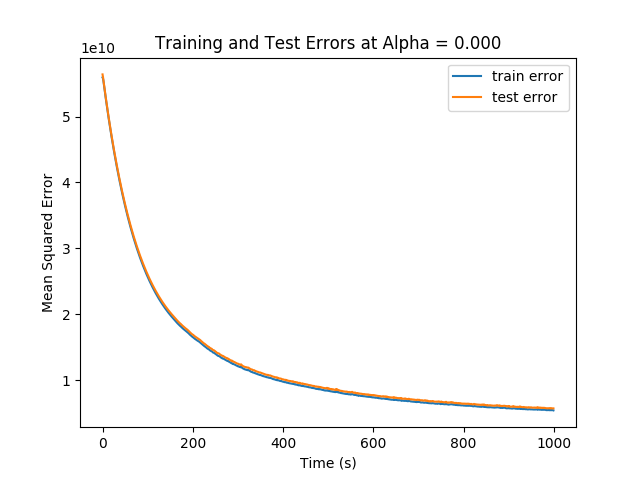
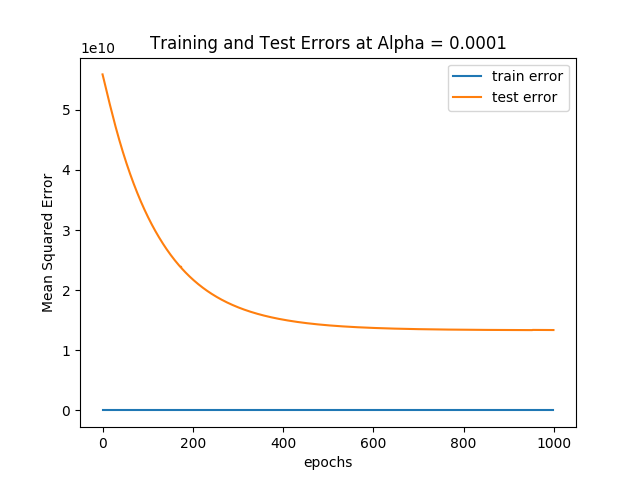
modification part b

diff --git a/project_1/part_b/q1/main.py b/project_1/part_b/q1/main.py
@@ -6,21 +6,27 @@ import theano.tensor as T
 import matplotlib.pyplot as plt
 from mpl_toolkits.mplot3d import Axes3D
 
+from sklearn.model_selection import KFold
+
+
 
 np.random.seed(10)
 
 epochs = 1000
-batch_size = 32
+batch_size = 128
 no_hidden1 = 30 #num of neurons in hidden layer 1
 learning_rate = 0.0001
+noExps = 2
 
 floatX = theano.config.floatX
 
 # scale and normalize input data
 def scale(X, X_min, X_max):
+    X_max, X_min =  np.max(X, axis=0), np.min(X, axis=0)
     return (X - X_min)/(X_max - X_min)
  
 def normalize(X, X_mean, X_std):
+    X_mean, X_std = np.mean(X, axis=0), np.std(X, axis=0)
     return (X - X_mean)/X_std
 
 def shuffle_data (samples, labels):
@@ -30,45 +36,62 @@ def shuffle_data (samples, labels):
     samples, labels = samples[idx], labels[idx]
     return samples, labels
 
+def init_bias(n = 1):
+    return(theano.shared(np.zeros(n), theano.config.floatX))
+
+def init_weights(n_in=1, n_out=1, logistic=True):
+    W_values = np.random.uniform(low=-np.sqrt(6. / (n_in + n_out)),
+                                 high=np.sqrt(6. / (n_in + n_out)),
+                                 size=(n_in, n_out))
+    if logistic == True:
+        W_values *= 4
+    return(theano.shared(W_values, theano.config.floatX))
+
+def set_bias(b, n = 1):
+    b.set_value(np.zeros(n))
+
+def set_weights(w, n_in=1, n_out=1, logistic=True):
+    W_values = np.random.uniform(low=-np.sqrt(6. / (n_in + n_out)),
+                                 high=np.sqrt(6. / (n_in + n_out)),
+                                 size=(n_in, n_out))
+    if logistic == True:
+        W_values *= 4
+    w.set_value(W_values)
+
 #read and divide data into test and train sets 
 cal_housing = np.loadtxt('../../data/cal_housing.data', delimiter=',')
 X_data, Y_data = cal_housing[:,:8], cal_housing[:,-1]
 Y_data = (np.asmatrix(Y_data)).transpose()
 
-X_data, Y_data = shuffle_data(X_data, Y_data)
+# X_data, Y_data = shuffle_data(X_data, Y_data)
 
 #separate train and test data
-m = 3*X_data.shape[0] // 10
-testX, testY = X_data[:m],Y_data[:m]
-trainX, trainY = X_data[m:], Y_data[m:]
+# m = 3*X_data.shape[0] // 10
+# testX, testY = X_data[:m],Y_data[:m]
+# trainX, trainY = X_data[m:], Y_data[m:]
 
-# scale and normalize data
-trainX_max, trainX_min =  np.max(trainX, axis=0), np.min(trainX, axis=0)
-testX_max, testX_min =  np.max(testX, axis=0), np.min(testX, axis=0)
+# trainX = scale(trainX)
+# testX = scale(testX)
 
-trainX = scale(trainX, trainX_min, trainX_max)
-testX = scale(testX, testX_min, testX_max)
+# trainX = normalize(trainX, trainX_mean, trainX_std)
+# testX = normalize(testX, testX_mean, testX_std)
 
-trainX_mean, trainX_std = np.mean(trainX, axis=0), np.std(trainX, axis=0)
-testX_mean, testX_std = np.mean(testX, axis=0), np.std(testX, axis=0)
-
-trainX = normalize(trainX, trainX_mean, trainX_std)
-testX = normalize(testX, testX_mean, testX_std)
-
-no_features = trainX.shape[1] 
+no_features = X_data.shape[1] 
 x = T.matrix('x') # data sample
 d = T.matrix('d') # desired output
 no_samples = T.scalar('no_samples')
 
 # initialize weights and biases for hidden layer(s) and output layer
-w_o = theano.shared(np.random.randn(no_hidden1)*.01, floatX ) 
-b_o = theano.shared(np.random.randn()*.01, floatX)
-w_h1 = theano.shared(np.random.randn(no_features, no_hidden1)*.01, floatX )
-b_h1 = theano.shared(np.random.randn(no_hidden1)*0.01, floatX)
+# w_o = theano.shared(np.random.randn(no_hidden1)*.01, floatX ) 
+# b_o = theano.shared(np.random.randn()*.01, floatX)
+# w_h1 = theano.shared(np.random.randn(no_features, no_hidden1)*.01, floatX )
+# b_h1 = theano.shared(np.random.randn(no_hidden1)*0.01, floatX)
+
+w_h1, b_h1 = init_weights(no_features, no_hidden1), init_bias(no_hidden1)
+w_o, b_o = init_weights(no_hidden1), init_bias()
 
 # learning rate
-alpha = theano.shared(learning_rate, floatX) 
-
+alpha = theano.shared(learning_rate, floatX)
 
 #Define mathematical expression:
 h1_out = T.nnet.sigmoid(T.dot(x, w_h1) + b_h1)
@@ -101,51 +124,114 @@ train_cost = np.zeros(epochs)
 test_cost = np.zeros(epochs)
 test_accuracy = np.zeros(epochs)
 
-
 min_error = 1e+15
-best_iter = 0
-best_w_o = np.zeros(no_hidden1)
-best_w_h1 = np.zeros([no_features, no_hidden1])
-best_b_o = 0
-best_b_h1 = np.zeros(no_hidden1)
+# best_iter = 0
+# best_w_o = np.zeros(no_hidden1)
+# best_w_h1 = np.zeros([no_features, no_hidden1])
+# best_b_o = 0
+# best_b_h1 = np.zeros(no_hidden1)
 
 alpha.set_value(learning_rate)
 print(alpha.get_value())
 
-t = time.time()
-for iter in range(epochs):
-    if iter % 100 == 0:
-        print(iter)
+# t = time.time()
+# for iter in range(epochs):
+#     if iter % 100 == 0:
+#         print(iter)
     
-    trainX, trainY = shuffle_data(trainX, trainY)
-    train_cost[iter] = train(trainX, np.transpose(trainY))
-    pred, test_cost[iter], test_accuracy[iter] = test(testX, np.transpose(testY))
+#     trainX, trainY = shuffle_data(trainX, trainY)
+#     train_cost[iter] = train(trainX, np.transpose(trainY))
+#     pred, test_cost[iter], test_accuracy[iter] = test(testX, np.transpose(testY))
 
-    if test_cost[iter] < min_error:
-        best_iter = iter
-        min_error = test_cost[iter]
-        best_w_o = w_o.get_value()
-        best_w_h1 = w_h1.get_value()
-        best_b_o = b_o.get_value()
-        best_b_h1 = b_h1.get_value()
+#     if test_cost[iter] < min_error:
+#         best_iter = iter
+#         min_error = test_cost[iter]
+#         best_w_o = w_o.get_value()
+#         best_w_h1 = w_h1.get_value()
+#         best_b_o = b_o.get_value()
+#         best_b_h1 = b_h1.get_value()
+
+learning_rates = [0.001, 0.005, 0.0001, 0.0005, 0.00001]
+
+noFolds = 5
+print("X shape: ", X_data.shape)
+fold_size = X_data.shape[0] // noFolds
+print("Fold size: ", fold_size)
+print("nb of features: ", no_features)
+
+
+opt_learningrate = []
+for exp in range(noExps):
+    print('Exp: ', exp+1)
+    # np.random.shuffle(idx)
+    # X, Y = X[idx], Y[idx]
+    X_data, Y_data = shuffle_data(X_data, Y_data)
+    
+    test_cost = []
+    for learning_rate in learning_rates:
+        print("Learning rate: ", learning_rate)
+        alpha.set_value(learning_rate)
+
+        fold_cost = []
+        for fold in range(noFolds):
+
+            start, end = fold*fold_size, (fold +1)*fold_size
+            testX, testY = X_data[start:end], Y_data[start:end]
+            trainX, trainY = np.append(X_data[:start], X_data[end:], axis=0), np.append(Y_data[:start], Y_data[end:], axis=0)
+        
+            set_weights(w_h1, no_features, no_hidden1)
+            set_bias(b_h1, no_hidden1)
+            set_weights(w_o, no_hidden1)
+            set_bias(b_o)
+
+            min_cost = 100000
+            # train_cost = []
+            for epoch in range(epochs):
+                n = trainX.shape[0]
+                for start_batch, end_batch in zip(range(0, n, batch_size), range(batch_size, n, batch_size)):
+                    train(trainX[start_batch:end_batch], trainY[start_batch:end_batch])
+                # train_cost.append(cost/(n // batch_size))
+                pred, test_cost, test_accuracy = test(testX, testY)
+                if test_cost < min_cost:
+                    min_cost = test_cost
+            fold_cost = np.append(fold_cost, min_cost)
+
+        # print("Fold", fold_cost.shape)
+        test_cost = np.append(test_cost, np.mean(fold_cost))
+        # print("Test", test_cost.shape)
+    opt_learningrate = np.append(opt_learningrate, np.argmin(test_cost)+1)
+
+
+print(opt_learningrate)
+plt.figure()
+counts = []
+for learning_rate in learning_rates:
+    counts = np.append(counts, np.sum(opt_learningrate == learning_rate))
+plt.bar(np.arange(1, len(learning_rates)+1), counts)
+plt.xticks(np.arange(0, len(learning_rates)+1, len(learning_rates) // 4))
+plt.xlabel('number of hidden neurons')
+plt.ylabel('number of experiments')
+plt.title('distribution of optimal number of hidden neurons')
+plt.savefig('figure_t6.q1b_2.png')
+plt.show()
 
 #set weights and biases to values at which performance was best
-w_o.set_value(best_w_o)
-b_o.set_value(best_b_o)
-w_h1.set_value(best_w_h1)
-b_h1.set_value(best_b_h1)
+# w_o.set_value(best_w_o)
+# b_o.set_value(best_b_o)
+# w_h1.set_value(best_w_h1)
+# b_h1.set_value(best_b_h1)
     
-best_pred, best_cost, best_accuracy = test(testX, np.transpose(testY))
+# best_pred, best_cost, best_accuracy = test(testX, np.transpose(testY))
 
-print('Minimum error: %.1f, Best accuracy %.1f, Number of Iterations: %d'%(best_cost, best_accuracy, best_iter))
+# print('Minimum error: %.1f, Best accuracy %.1f, Number of Iterations: %d'%(best_cost, best_accuracy, best_iter))
 
 #Plots
 plt.figure()
 plt.plot(range(epochs), train_cost, label='train error')
 plt.plot(range(epochs), test_cost, label = 'test error')
-plt.xlabel('Time (s)')
+plt.xlabel('epochs')
 plt.ylabel('Mean Squared Error')
-plt.title('Training and Test Errors at Alpha = %.3f'%learning_rate)
+plt.title('Training and Test Errors at Alpha = %.4f'%learning_rate)
 plt.legend()
 plt.savefig('p_1b_sample_mse.png')
 plt.show()

diff --git a/project_1/part_b/q2/main.py b/project_1/part_b/q2/main.py
@@ -7,6 +7,7 @@ import matplotlib.pyplot as plt
 from mpl_toolkits.mplot3d import Axes3D
 
 
+
 np.random.seed(10)
 
 epochs = 1000
@@ -68,7 +69,6 @@ b_h1 = theano.shared(np.random.randn(no_hidden1)*0.01, floatX)
 
 # learning rate
 alpha = theano.shared(learning_rate, floatX) 
-
 
 #Define mathematical expression:
 h1_out = T.nnet.sigmoid(T.dot(x, w_h1) + b_h1)
@@ -178,7 +178,7 @@ plt.figure()
 for label, curve in zip(learning_rates, result["train_cost"]):
     plt.plot(range(epochs), curve, label="alpha = " + str(label))
 plt.legend(loc = 'upper right')
-plt.xlabel('iterations')
+plt.xlabel('epochs')
 plt.ylabel('Mean Squared Error')
 plt.title('training cost')
 plt.savefig('p2a_sample_cost.png')
@@ -187,7 +187,7 @@ plt.figure()
 for label, curve in zip(learning_rates, result["test_accuracy"]):
     plt.plot(range(epochs), curve, label="alpha = " + str(label))
 plt.legend(loc = 'upper right')
-plt.xlabel('iterations')
+plt.xlabel('epochs')
 plt.ylabel('accuracy')
 plt.title('test accuracy')
 plt.savefig('p2a_sample_accuracy.png')
